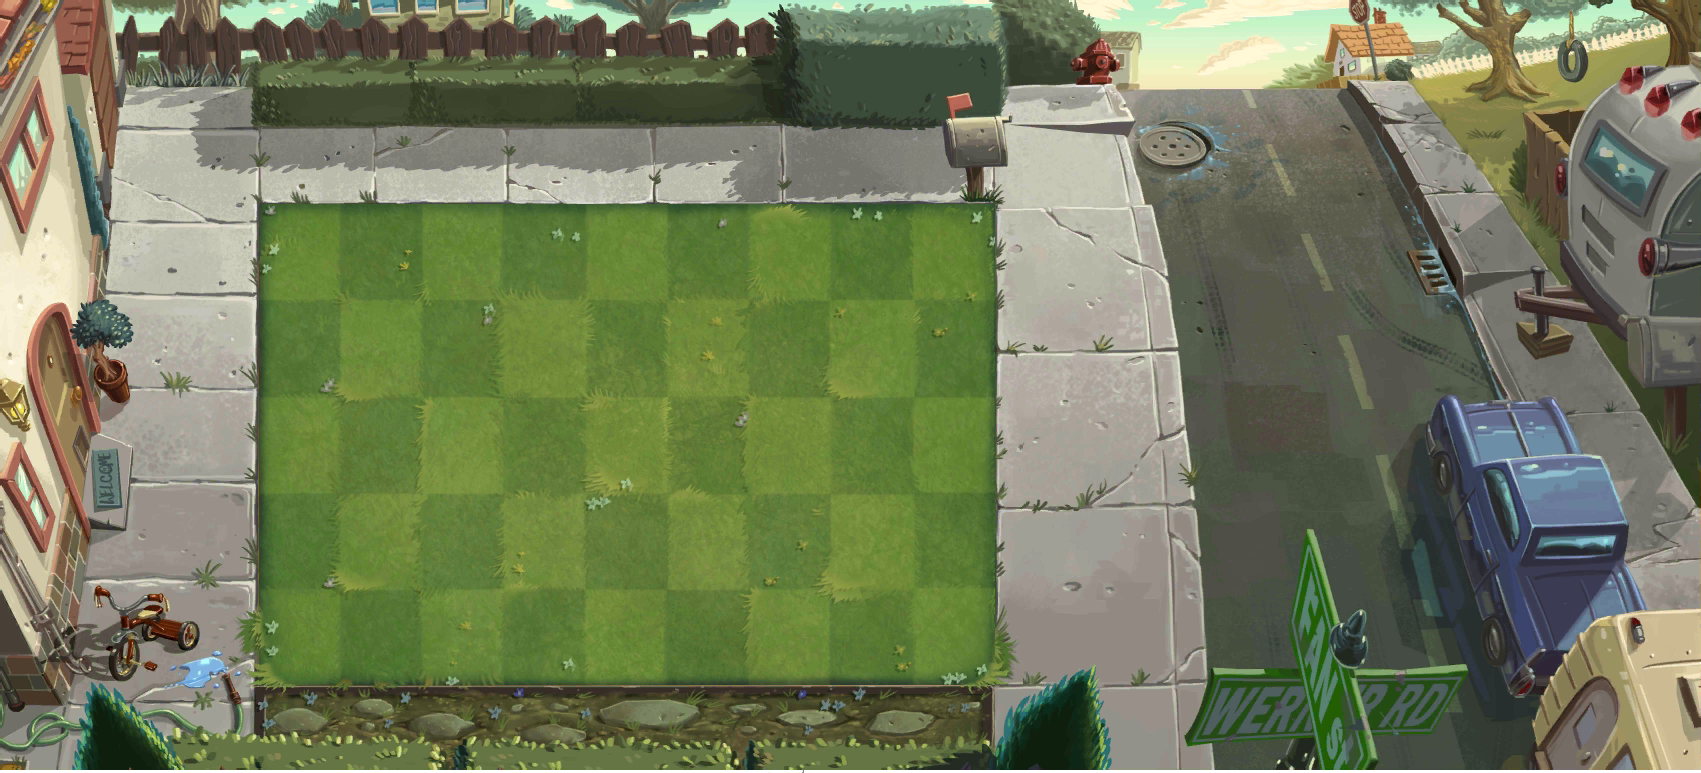
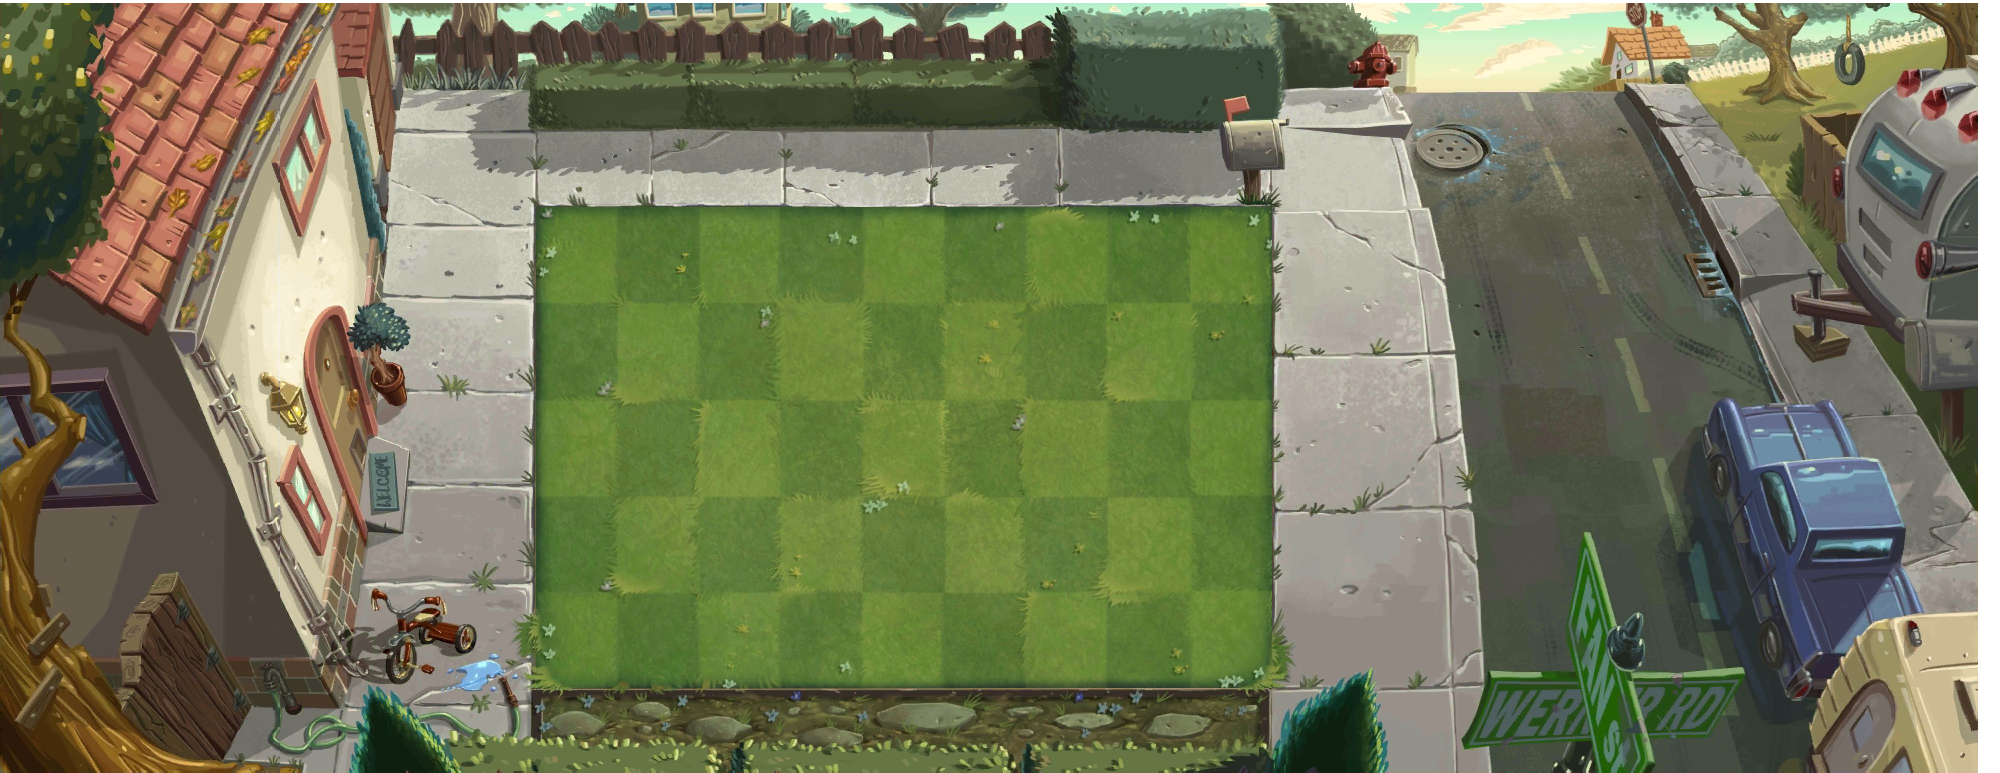
Added Lawn

diff --git a/PvZ2_Remake/FLawn.cpp b/PvZ2_Remake/FLawn.cpp
@@ -1,0 +1,48 @@
+#include <stdio.h>
+#include <SDL.h>
+
+#include "Constants.hpp"
+#include "FLawn.hpp"
+
+FLawn::FLawn() {
+	for (int rowI = 0; rowI < numRow; rowI++) {
+		for (int colJ = 0; colJ < numCol; colJ++) {
+			grid[rowI][colJ].row = rowI;
+			grid[rowI][colJ].col = colJ;
+			grid[rowI][colJ].x = LAWN_START_X + colJ * LAWN_GRID_WIDTH;
+			grid[rowI][colJ].y = LAWN_START_Y + rowI * LAWN_GRID_HEIGHT;
+			grid[rowI][colJ].state = GRID_EMPTY;
+		}
+	}
+}
+
+bool FLawn::updateGrid(int row, int col, enum GRID_STATE state) {
+	grid[row][col].state = state;
+	
+	switch (state) {
+	case GRID_PEASHOOTER:
+		break;
+	case GRID_SUNFLOWER:
+		break;
+	case GRID_POTATOMINE:
+		break;
+	case GRID_WALLNUT:
+		break;
+	case GRID_EMPTY:
+		break;
+	}
+
+	printf("DONE: updateGrid %d %d\n", row, col);
+	return 1;
+}
+
+// Debug functions
+void FLawn::drawGridHitbox(SDL_Renderer* mRenderer) {
+	SDL_SetRenderDrawColor(mRenderer, 0, 0, 0, 0);
+	for (int rowI = 0; rowI < numRow; rowI++) {
+		for (int colJ = 0; colJ < numCol; colJ++) {
+			SDL_Rect renderRect = { grid[rowI][colJ].x, grid[rowI][colJ].y, LAWN_GRID_WIDTH, LAWN_GRID_HEIGHT };
+			SDL_RenderDrawRect(mRenderer, &renderRect);
+		}
+	}
+}

diff --git a/PvZ2_Remake/main.cpp b/PvZ2_Remake/main.cpp
@@ -4,19 +4,40 @@
 #include "Init.hpp"
 #include "RenderEngine.hpp"
 #include "FTexture.hpp"
+#include "FLawn.hpp"
+#include "FGrid.hpp"
 
 int main(int argc, char* argv[]) {
 	initEngines();
 	SDL_Renderer* mRenderer = NULL;
 	SDL_Window* mWindow = NULL;
 	FTexture mTexture;
+	FLawn mLawn;
 	createWindow(mWindow);
 	createRenderer(mRenderer, mWindow);
-	mTexture.loadFromFile(mRenderer, "Assets/Lawn/lawn.png");
-	mTexture.renderAtPosition(mRenderer, 0, 0);
+	mTexture.loadFromFile(mRenderer, LAWN_IMG);
+	mTexture.renderAtPosition(mRenderer, -10, 0);
+	mLawn.drawGridHitbox(mRenderer);
+	
 	SDL_RenderPresent(mRenderer);
 
-	SDL_Delay(5000);
+	
+
+	bool quit = false;
+	SDL_Event e;
+	while (!quit) {
+		while (SDL_PollEvent(&e)) {
+			if (e.type == SDL_QUIT) {
+				quit = true;
+				break;
+			}
+			else if (e.type == SDL_MOUSEBUTTONDOWN){
+				int x, y;
+				SDL_GetMouseState(&x, &y);
+				printf("%d %d\n", x, y);
+			}
+		}
+	}
 
 	quitEngines();
 

diff --git a/PvZ2_Remake/Constants.hpp b/PvZ2_Remake/Constants.hpp
@@ -1,4 +1,21 @@
 #pragma once
+#include <string>
 
 const int SCREEN_WIDTH = 1280;
 const int SCREEN_HEIGHT = 720;
+
+const std::string LAWN_IMG = "Assets/Lawn/lawn.png";
+const int LAWN_GRID_WIDTH = 81;
+const int LAWN_GRID_HEIGHT = 95;
+const int LAWN_START_X = 528;
+const int LAWN_START_Y = 207;
+const int LAWN_END_X = 1257;
+const int LAWN_END_Y = 682;
+
+enum GRID_STATES {
+	GRID_EMPTY,
+	GRID_PEASHOOTER,
+	GRID_SUNFLOWER,
+	GRID_WALLNUT,
+	GRID_POTATOMINE
+};

diff --git a/PvZ2_Remake/FLawn.hpp b/PvZ2_Remake/FLawn.hpp
@@ -1,0 +1,21 @@
+#pragma once
+
+#include <stdio.h>
+#include <SDL.h>
+
+#include "Constants.hpp"
+#include "FGrid.hpp"
+
+class FLawn {
+private:
+	const int numRow = 5, numCol = 9;
+	FGrid grid[5][9];
+
+public:
+	FLawn();
+	bool updateGrid(int row, int col, enum GRID_STATE state);
+	
+
+	// Debug functions
+	void drawGridHitbox(SDL_Renderer* mRenderer);
+};

diff --git a/PvZ2_Remake/FGrid.cpp b/PvZ2_Remake/FGrid.cpp
@@ -1,0 +1,21 @@
+#include <stdio.h>
+
+#include <SDL.h>
+#include "Constants.hpp"
+#include "FGrid.hpp"
+
+FGrid::FGrid() {
+	row = 0;
+	col = 0;
+	x = 0;
+	y = 0;
+	state = 0;
+}
+
+FGrid::FGrid(int r, int c) {
+	row = r;
+	col = c;
+	x = LAWN_START_X + c * LAWN_GRID_WIDTH;
+	y = LAWN_START_Y + r * LAWN_GRID_HEIGHT;
+	state = 0;
+}

diff --git a/PvZ2_Remake/Init.cpp b/PvZ2_Remake/Init.cpp
@@ -39,7 +39,7 @@ bool initEngines() {
 		return 0;
 	}
 
-	if (Mix_OpenAudio(44100, MIX_DEFAULT_FORMAT, 4, 2048) < 0) {
+	if (Mix_OpenAudio(44100, MIX_DEFAULT_FORMAT, 16, 2048) < 0) {
 		printf("initEngines -> Mix_OpenAudio\n");
 		return 0;
 	}

diff --git a/PvZ2_Remake/FGrid.hpp b/PvZ2_Remake/FGrid.hpp
@@ -1,0 +1,15 @@
+#pragma once
+#include <stdio.h>
+
+#include <SDL.h>
+#include "Constants.hpp"
+#include "FTexture.hpp"
+
+struct FGrid {
+	int state;
+	int row, col;
+	int x, y;
+
+	FGrid();
+	FGrid(int r, int c);
+};
